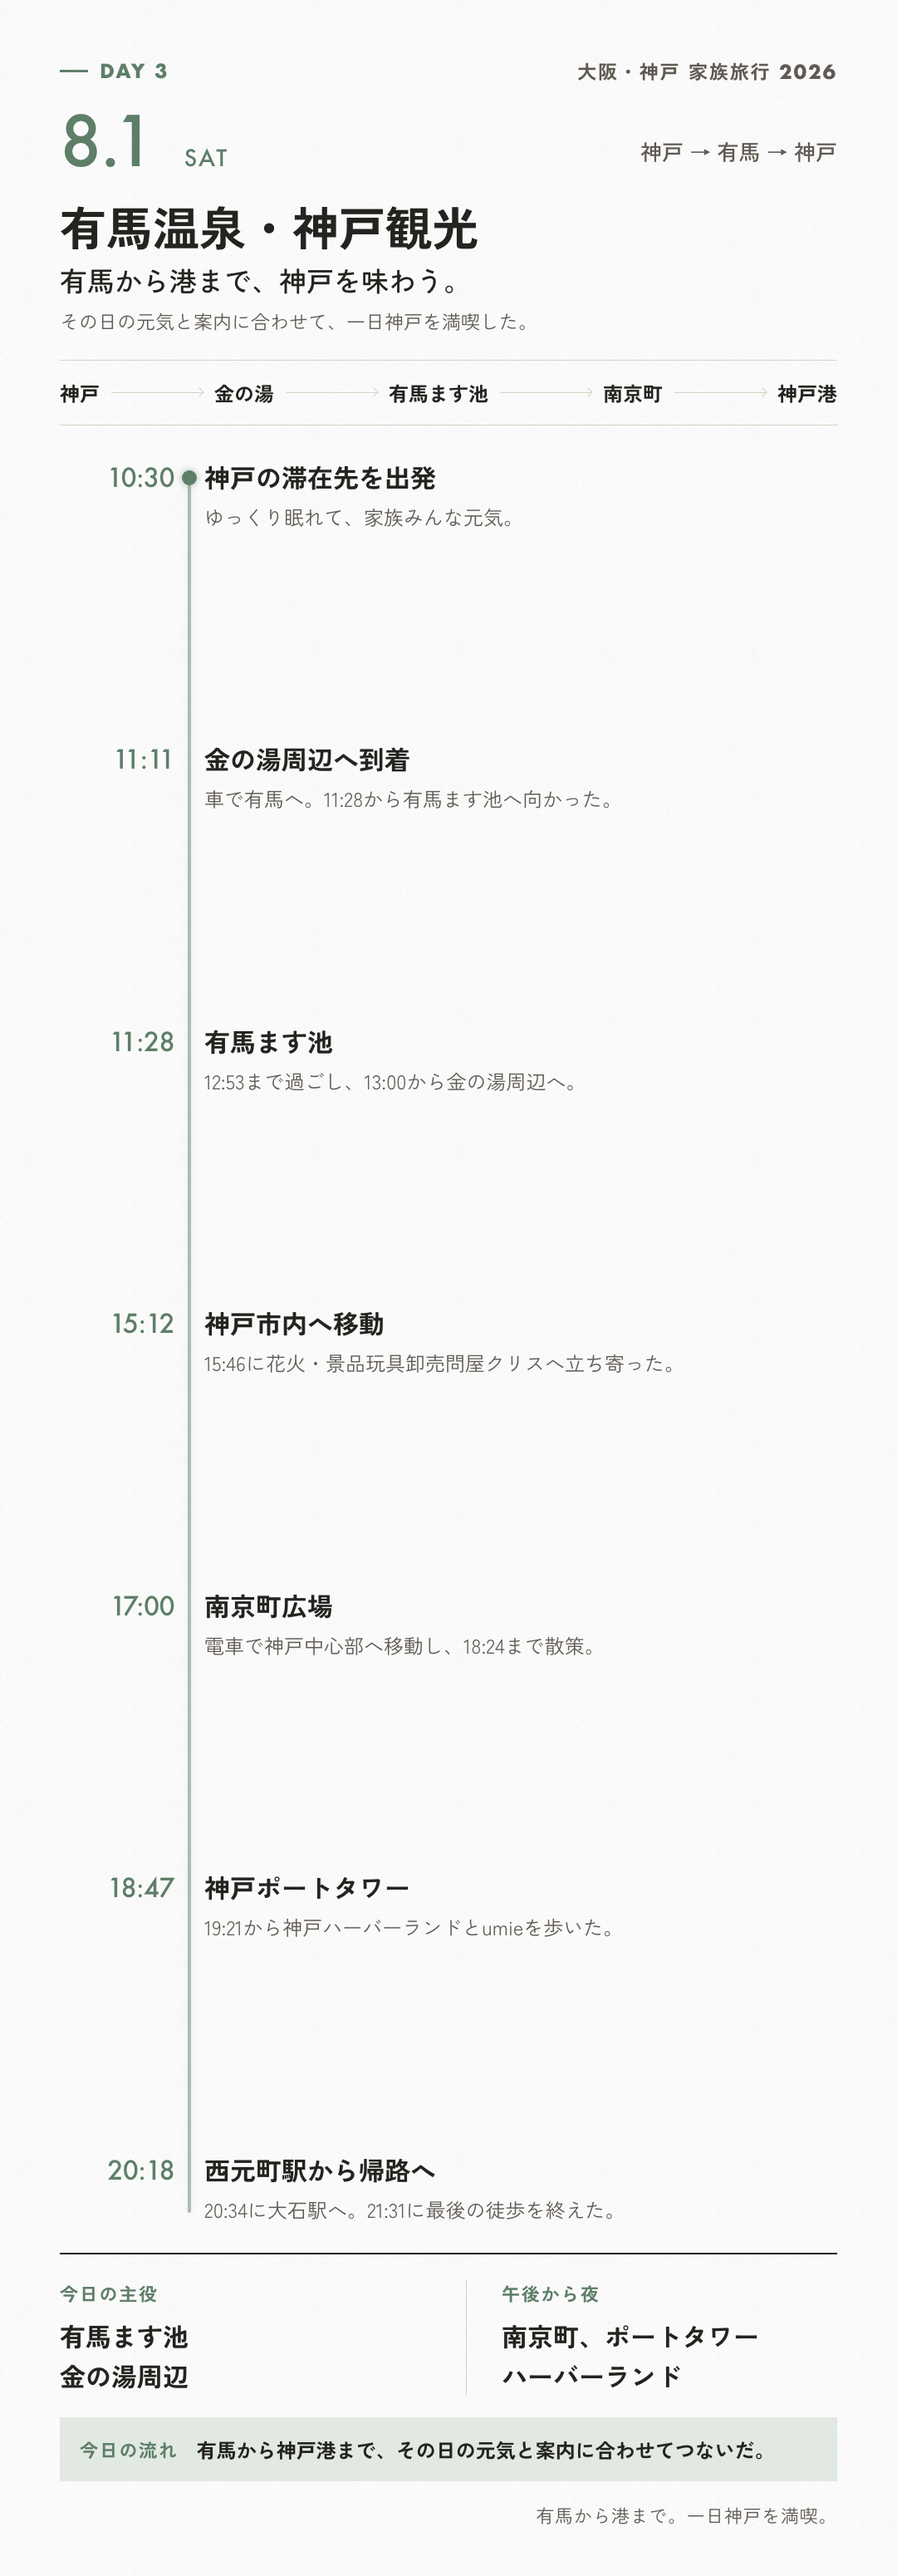
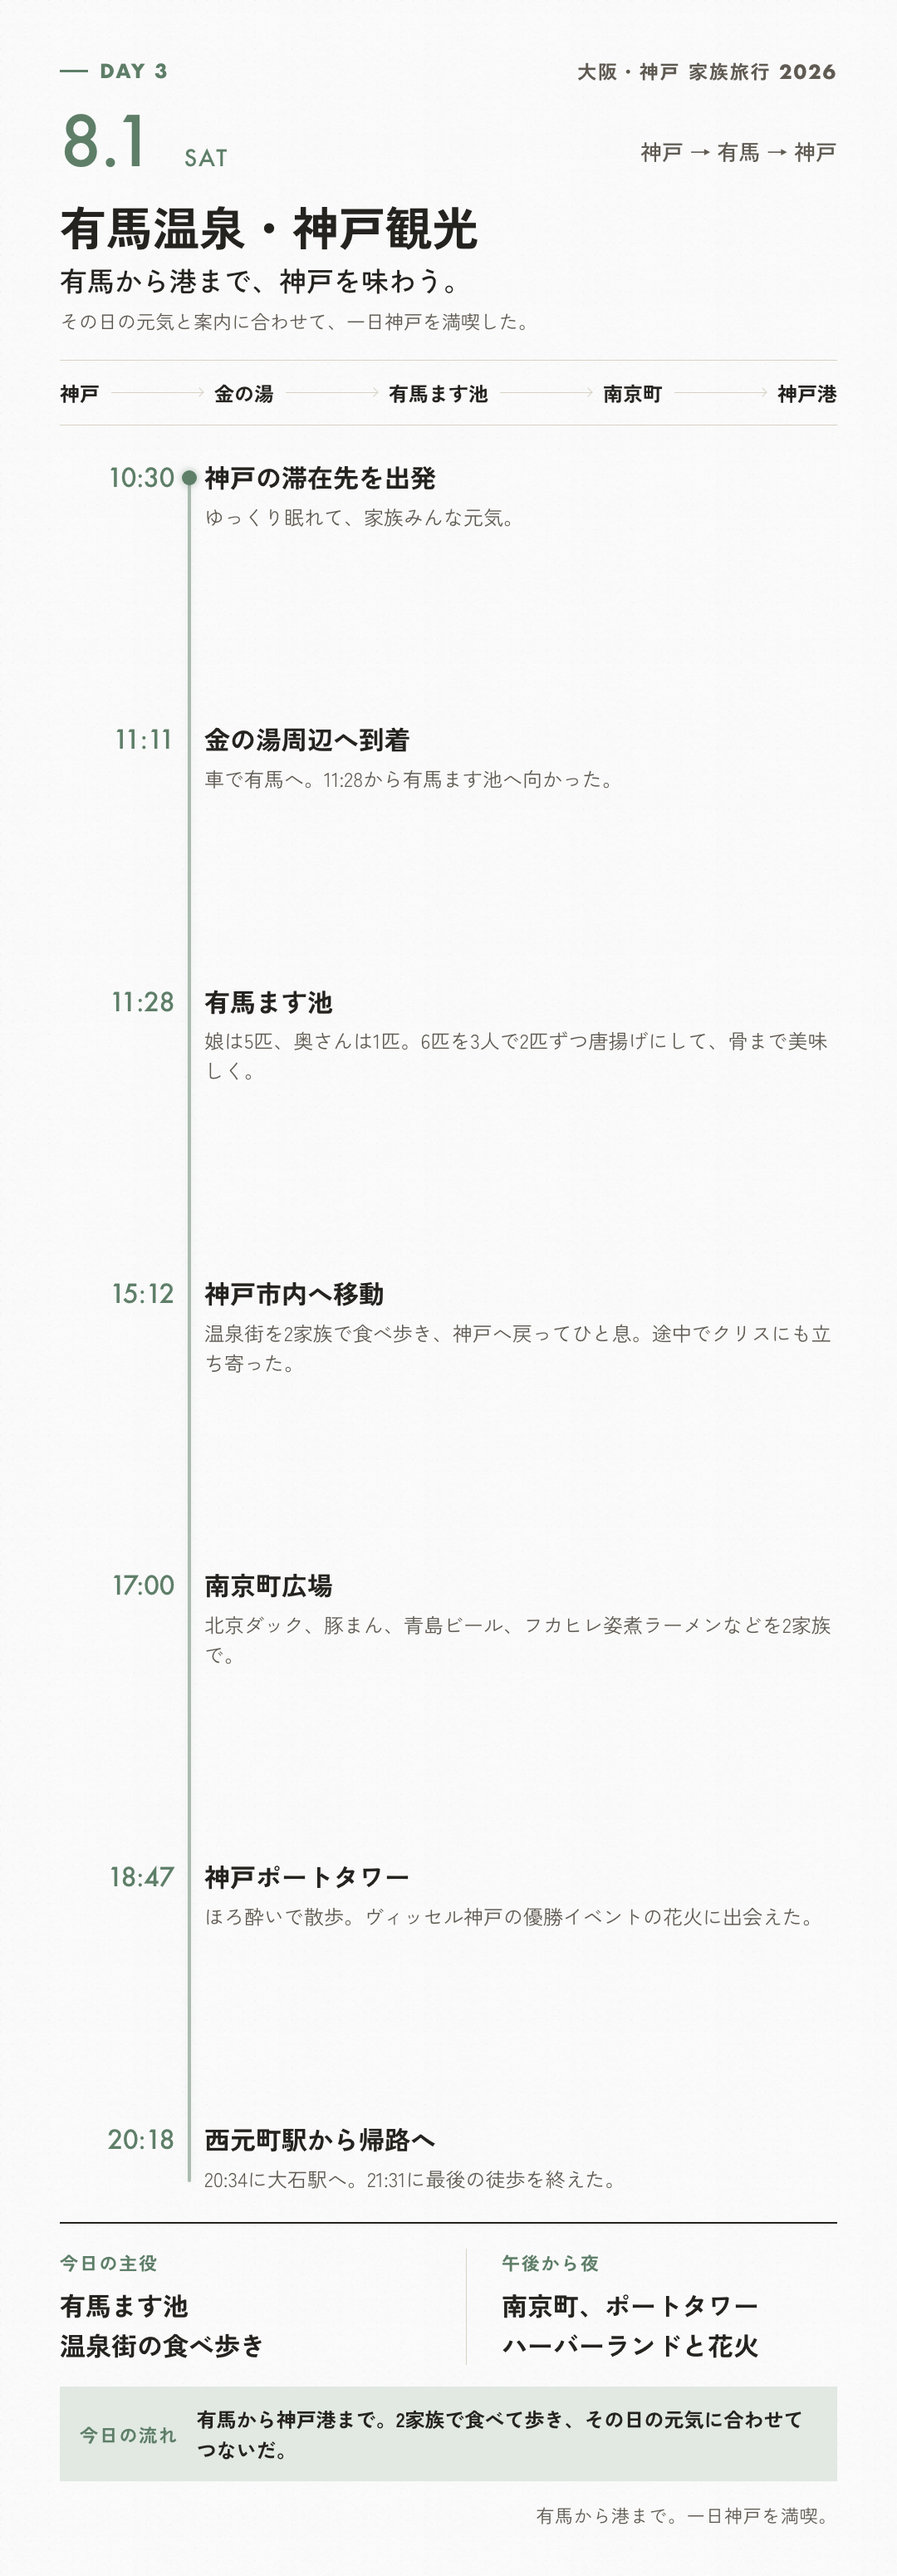
Record Arima and final return

diff --git a/docs/trip-plan.html b/docs/trip-plan.html
@@ -104,8 +104,8 @@
             初日はしろたやで主昼食を取り、道頓堀のたこ焼きとお好み焼き系を必食にする日。翌日のUSJへ体力と胃袋の余白を残す。
           </p>
           <p>
-            たこ焼きとお好み焼き系は三人で一皿ずつ分ける。551蓬莱の豚まんとラーメンは、食べられそうな時だけの追加候補。
-            新世界は基本行程から外し、通天閣だけを全員が元気な場合のオプションにする。
+            たこ焼きとお好み焼き系は三人で一皿ずつ分けた。たこ焼きは道頓堀のわなかとシティウォークの甲賀流を食べ比べ、甲賀流の方が好みだった。
+            551蓬莱の豚まんは伊丹空港でも食べられるため優先度を下げ、今回は見送った。新世界と通天閣も、娘の足を優先して見送った。
           </p>
           <div class="timeline">
             <div class="timeline__item">
@@ -266,7 +266,7 @@
               <time>18:30</time>
               <div>
                 <h3>ユニバーサル・シティウォークの夜</h3>
-                <p>お土産を選び、TAKOPAでたこ焼き、神座でラーメン。今日は食べ過ぎたが、思い残すことはない。</p>
+                <p>お土産を選び、TAKOPAでは甲賀流のたこ焼き、神座ではラーメン。甲賀流はわなかより好みだった。今日は食べ過ぎたが、思い残すことはない。</p>
               </div>
             </div>
             <div class="timeline__item">
@@ -451,28 +451,28 @@
               <time>11:28</time>
               <div>
                 <h3>有馬ます池</h3>
-                <p>12:53まで過ごし、13:00からは金の湯周辺へ戻った。</p>
+                <p>娘は5匹、奥さんは1匹を釣り、6匹を3人で2匹ずつ唐揚げにして骨まで美味しくいただいた。</p>
               </div>
             </div>
             <div class="timeline__item">
               <time>15:12</time>
               <div>
                 <h3>神戸市内へ移動</h3>
-                <p>15:46に花火・景品玩具卸売問屋クリスへ立ち寄った。</p>
+                <p>温泉街で2家族そろって食べ歩きを楽しみ、神戸へ戻ってひと息。途中で花火・景品玩具卸売問屋クリスにも立ち寄った。</p>
               </div>
             </div>
             <div class="timeline__item">
               <time>17:00</time>
               <div>
                 <h3>南京町広場</h3>
-                <p>電車で神戸中心部へ移動し、18:24まで散策。</p>
+                <p>大石駅から元町へ。北京ダック、豚まん、唐揚げ、青島ビール、フカヒレ姿煮ラーメン、豚の角煮マン、レインボーかき氷を2家族で楽しんだ。</p>
               </div>
             </div>
             <div class="timeline__item">
               <time>18:47</time>
               <div>
                 <h3>神戸ポートタワー</h3>
-                <p>19:21から神戸ハーバーランドとumieも歩いた。</p>
+                <p>ほろ酔いで散歩し、たまたまヴィッセル神戸の優勝イベントの花火も見られた。19:21からハーバーランドとumieも歩いた。</p>
               </div>
             </div>
             <div class="timeline__item">
@@ -484,7 +484,7 @@
             </div>
           </div>
           <p class="principle">
-            予定を決めすぎず、その時の元気と案内に合わせたことで、有馬から港まで無理なくつながった。
+            有馬では釣りと温泉街の食べ歩き、神戸では南京町から港まで。2家族で味わいながら歩き、花火までつながる一日になった。
           </p>
         </section>
 
@@ -532,8 +532,8 @@
             <div class="timeline__item">
               <time>16:30</time>
               <div>
-                <h3>搭乗開始を待つ <span class="now-marker">★ イマココ ★</span></h3>
-                <p>16:50のANA 737便で仙台へ向かう。</p>
+                <h3>ANA 737便に搭乗</h3>
+                <p>16:50の便で仙台へ。到着後に合流し、山形の家まで無事に帰宅した。</p>
               </div>
             </div>
           </div>
